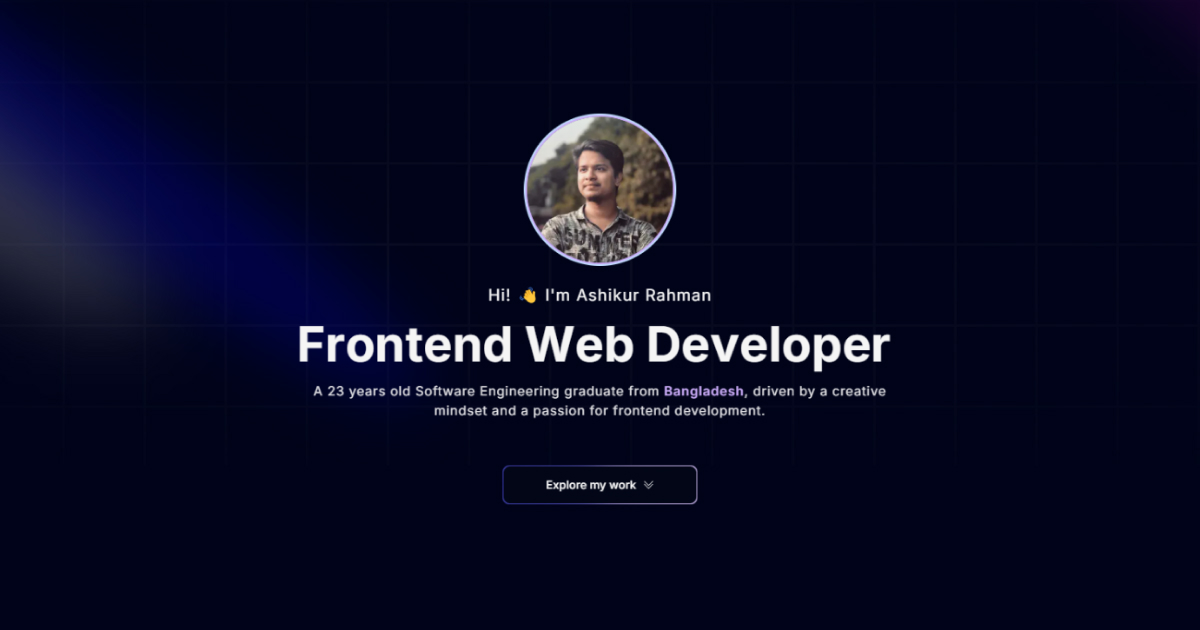
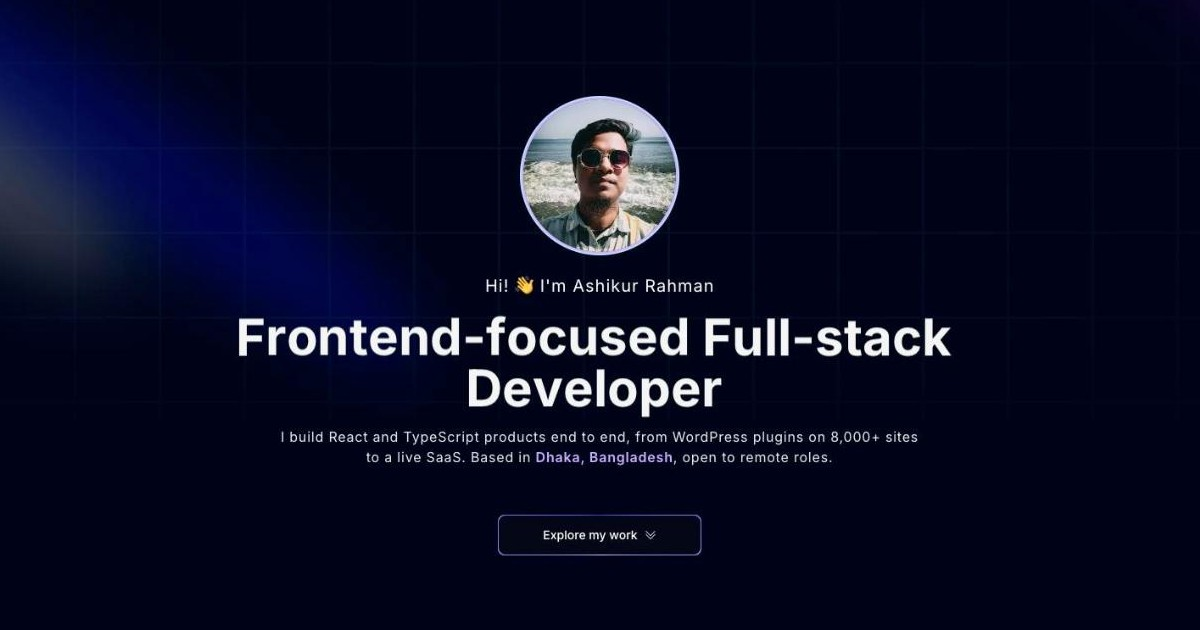
New title, description and link-preview image; fix nested links in project cards
Server rendering exposed two old issues: project cards were links with a
GitHub link inside (invalid HTML, hydration error), and react-lottie got
undefined eventListeners on unmount.

Changed region(s): [[0.185, 0.1508, 0.8017, 0.9048]]

diff --git a/app/layout.tsx b/app/layout.tsx
@@ -6,35 +6,33 @@ import "./globals.css";
 import { personalInfo } from "@/data";
 const inter = Inter({ subsets: ["latin"] });
 
-const { name, location, websiteDomain, briefInfo } = personalInfo;
+const { name, title, location, websiteDomain, briefInfo } = personalInfo;
 
 export const metadata: Metadata = {
-  title: `${name} - Frontend Web Developer Portfolio`,
+  metadataBase: new URL(websiteDomain),
+  title: `${name} - ${title}`,
   description: briefInfo,
-  keywords: `web developer, frontend, React, Next.js, TypeScript, Javascript, Tailwind Css, Framer Motion, ${location}, ${name}, MERN Stack, Tanstack Query, React Hook Form, Node JS, Express JS, Mongo DB, Mongoose, Webflow, Shopify, UI-UX Designer, vite`,
+  keywords: `full-stack developer, frontend developer, remote, React, Next.js, TypeScript, JavaScript, Node.js, Laravel, PHP, WordPress, WooCommerce, PostgreSQL, Docker, Tailwind CSS, ${location}, ${name}`,
   authors: [{ name: name, url: websiteDomain }],
   openGraph: {
-    title: `${name} - Frontend Web Developer Portfolio`,
+    title: `${name} - ${title}`,
     description: briefInfo,
+    url: websiteDomain,
+    type: "website",
     images: [
       {
         url: "/opengraph-image.jpg",
         width: 1200,
         height: 630,
-        alt: `${name} - Frontend Web Developer`,
+        alt: `${name} - ${title}`,
       },
     ],
   },
   twitter: {
     card: "summary_large_image",
-    title: `${name} - Frontend Web Developer`,
+    title: `${name} - ${title}`,
     description: briefInfo,
-    images: [
-      "/twitter-image.png",
-      "/twitter-image-2.png",
-      "/twitter-image-3.png",
-      "/twitter-image-4.png",
-    ],
+    images: ["/opengraph-image.jpg"],
   },
 };
 

diff --git a/components/ui/ProjectCard.tsx b/components/ui/ProjectCard.tsx
@@ -59,12 +59,9 @@ export const ProjectCard = ({
     setOpacity(0);
   };
   return (
-    <motion.a
+    <motion.div
       variants={variants}
       key={id}
-      href={link}
-      target="_blank"
-      rel="noopener noreferrer"
       className="w-[95%] max-h-[520px] group mx-auto  p-2 bg-white dark:border-0 border overflow-hidden rounded-xl dark:text-white text-black "
       style={{
         backgroundColor: "rgb(4,7,29)",
@@ -73,6 +70,7 @@ export const ProjectCard = ({
         border: "0.2px solid rgb(77 76 90 / 0.5)",
       }}
     >
+      <a href={link} target="_blank" rel="noopener noreferrer" aria-label={`Open ${title}`}>
       <figure className="w-full h-80 group-hover:h-72 transition-all duration-300 dark:bg-[#131e29] bg-[#f0f5fa]  rounded-xl relative overflow-hidden">
         <div
           ref={divRef}
@@ -100,6 +98,7 @@ export const ProjectCard = ({
           />
         </div>
       </figure>
+      </a>
       <article className="p-4 ">
         <div className="flex items-center justify-between mb-3">
           <div className="flex items-center">
@@ -124,7 +123,9 @@ export const ProjectCard = ({
           </div>
         </div>
         <h4 className="text-lg sm:text-xl font-semibold capitalize mb-3.5 sm:mb-4">
-          {title}
+          <a href={link} target="_blank" rel="noopener noreferrer" className="hover:underline">
+            {title}
+          </a>
         </h4>
         <p className="text-sm leading-[120%] text-zinc-300 mb-4">{des}</p>
         {githubLink && (
@@ -137,6 +138,6 @@ export const ProjectCard = ({
           </Link>
         )}
       </article>
-    </motion.a>
+    </motion.div>
   );
 };

diff --git a/components/Home-page-sections/Contact.tsx b/components/Home-page-sections/Contact.tsx
@@ -67,6 +67,7 @@ const Contact = () => {
           height={200}
           width={400}
           isStopped={!playAnimation} // Control animation based on state
+          eventListeners={[]}
           style={{
             position: "absolute",
             top: "0px",
